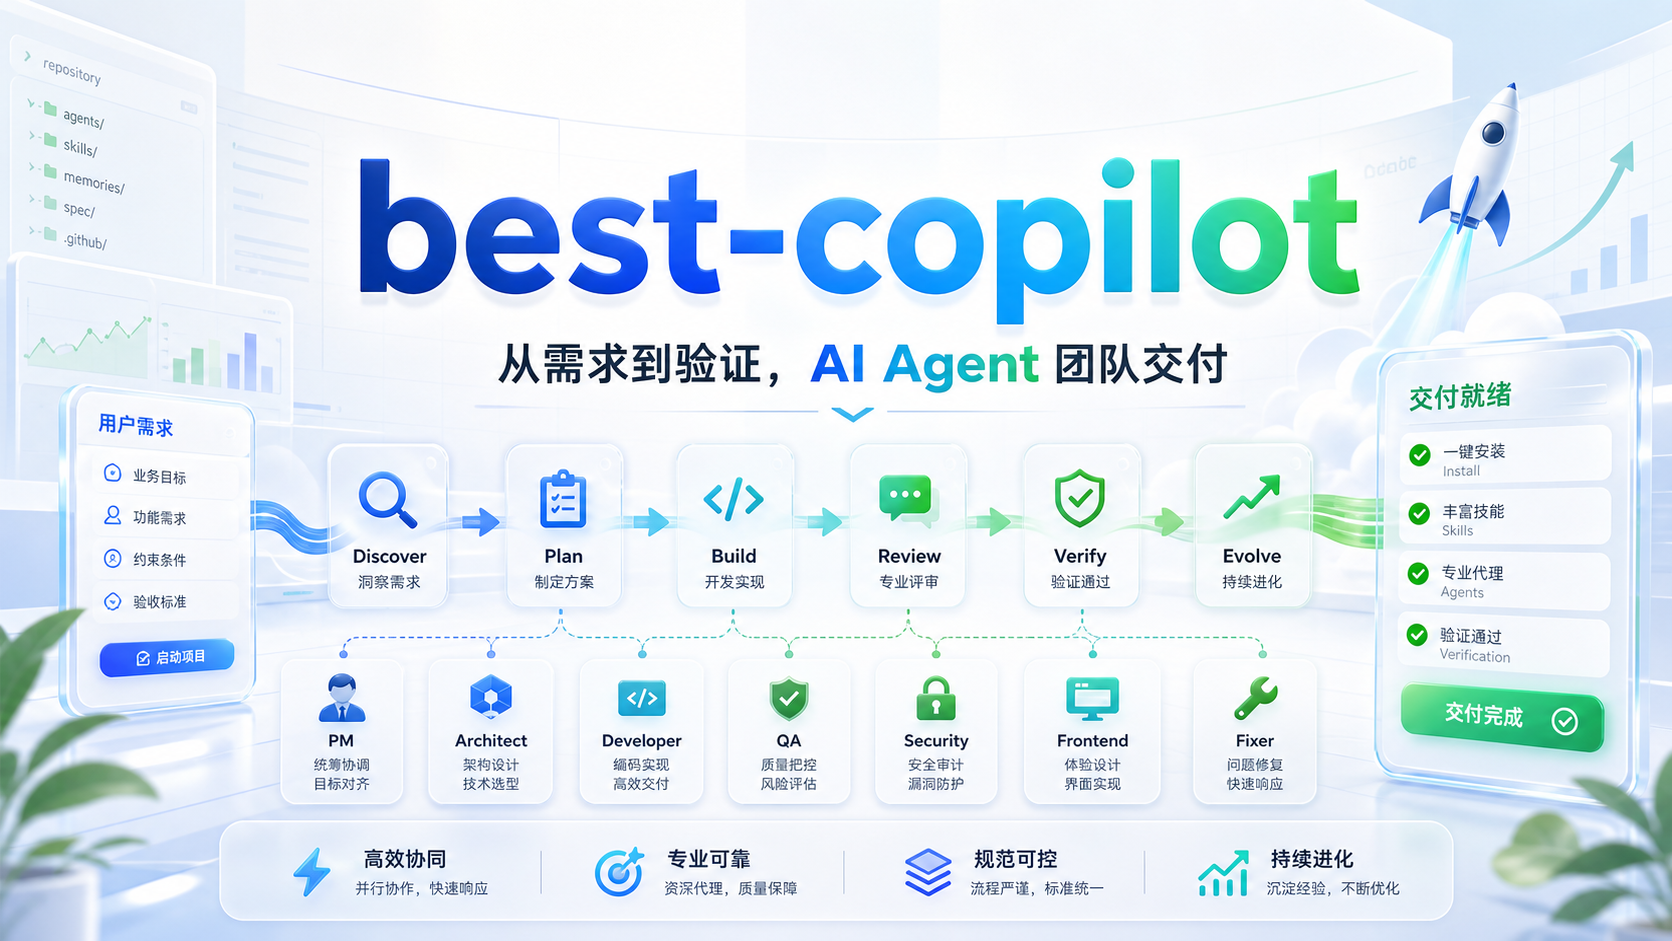
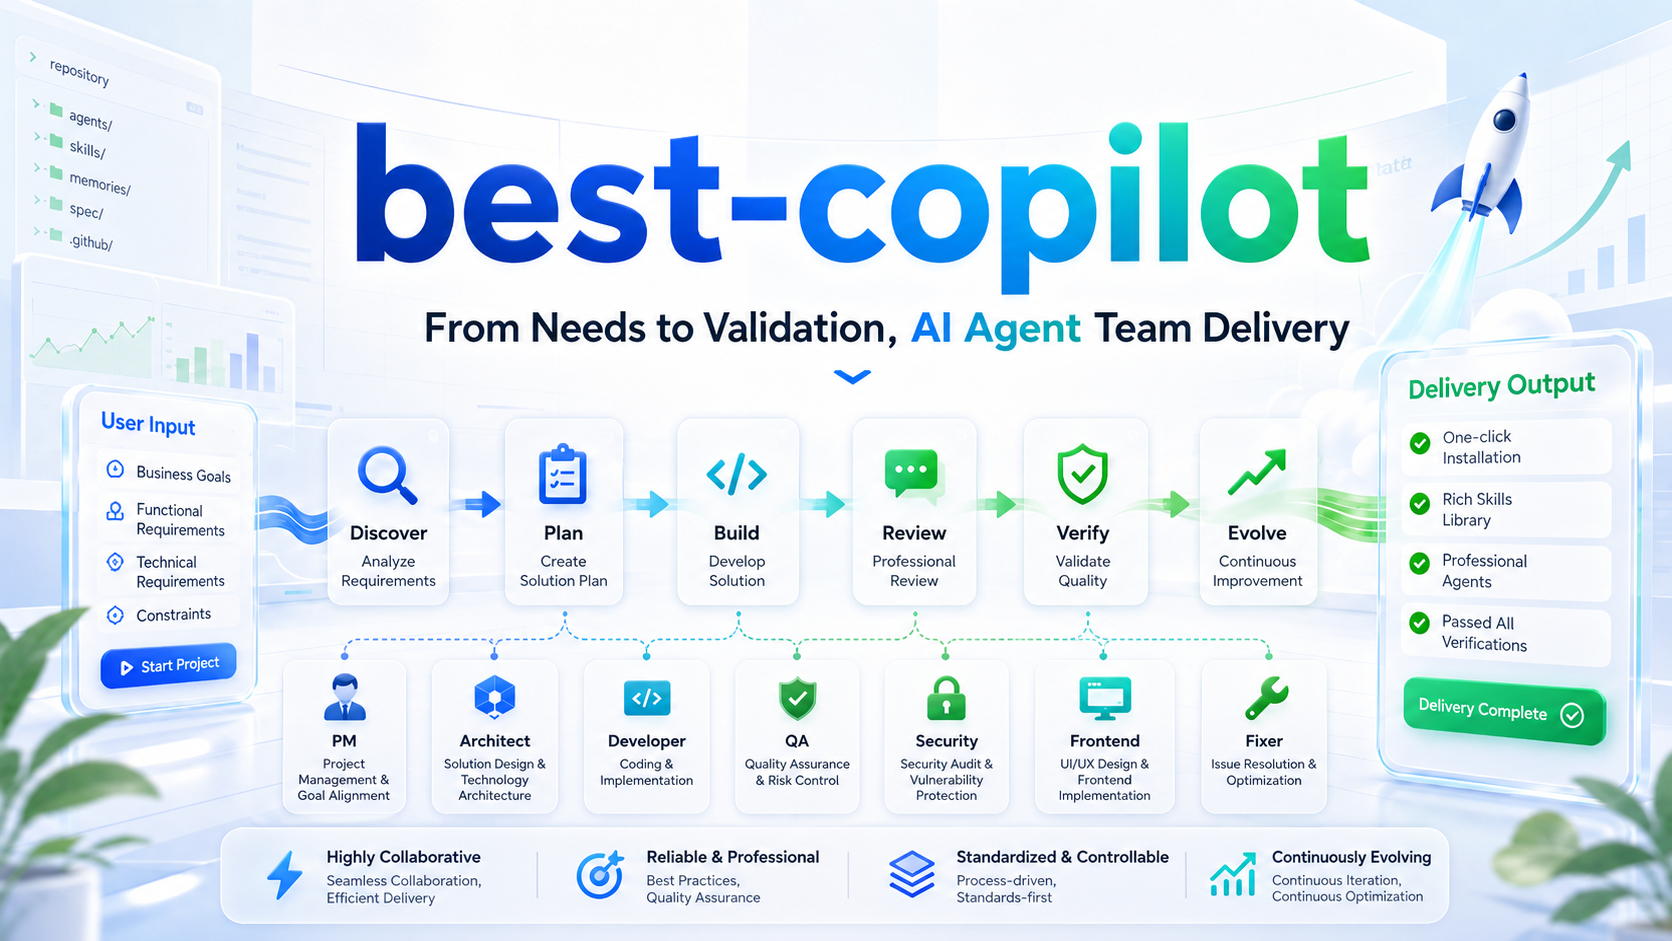
Update the hero images in README.zh-CN.md and add Chinese versions of the hero image files (#24)

diff --git a/README.zh-CN.md b/README.zh-CN.md
@@ -9,7 +9,7 @@
 [![skills](https://img.shields.io/badge/skills-39-10b981)](skills/)
 [![license](https://img.shields.io/badge/license-Apache--2.0-64748b)](LICENSE)
 
-![best-copilot hero](assets/best-copilot-hero.png)
+![best-copilot hero](assets/best-copilot-hero-cn.png)
 
 `best-copilot` 是一套面向 Copilot CLI 和 Claude Code 的可安装 agent 团队，服务严肃的工程工作。它为仓库提供一条资深交付流程：初始化事实、冻结范围、先设计再构建、通过专责角色实现、独立审查、以证据验证，并保留下次会话的恢复点。
 